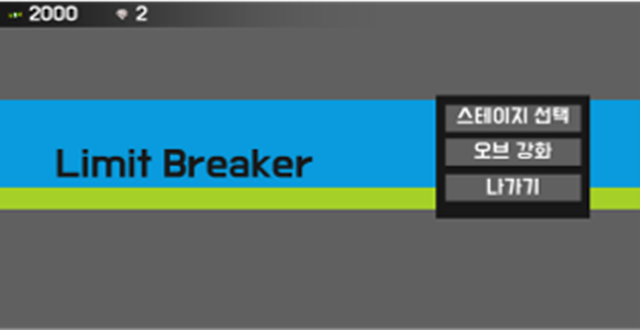
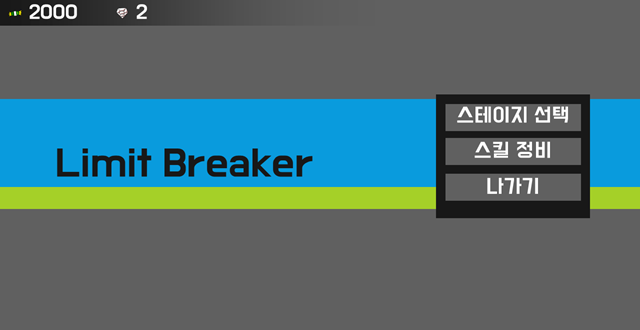
자세한 내용은 2월 10일자 로그 참고

diff --git a/src/Sections/GUI.js b/src/Sections/GUI.js
@@ -8,7 +8,7 @@ function GUI() {
             </div>
             <div className="Main-text">
                 본 게임이 시작하기 전에 들르게 되는 화면이다.<br />
-                스테이지 선택, 오브 강화 등 다양한 것들을 선택할 수 있다.
+                스테이지 선택, 스킬 정비 등 다양한 것들을 선택할 수 있다.
             </div>
         </>
     );
@@ -32,18 +32,33 @@ function GUI3() {
     return (
         <>
             <div className="Image">
-                <img className="Image-right" src={require('../img/options.png')} alt="GUI" />
+                <img className="Image-right" src={require('../img/skillUpgrade.png')} alt="GUI" />
             </div>
             <div className="Main-text">
-                메인 화면에서 <mark>오브 강화</mark>에 들어갔을 때 보게 되는 화면이다.<br />
-                다양한 강화 요소들과 해당 요소를 직관적으로 보여주는 아이콘들,<br />
-                그리고 그 아래쪽에 있는 현재 레벨 등으로 편한 강화가 가능하게 한다.
+                메인 화면에서 <mark>스킬 정비</mark>에 들어갔을 때 보게 되는 화면이다.<br />
+                해당 화면에서는 여러 스킬들을 슬롯에 장착할 수 있게 하고<br />
+                버튼을 통해 스킬 강화 화면으로 진입이 가능하게 할 예정이다.
             </div>
         </>
     );
 }
 
 function GUI4() {
+    return (
+        <>
+            <div className="Image">
+                <img className="Image-right" src={require('../img/options.png')} alt="GUI" />
+            </div>
+            <div className="Main-text">
+                메인 화면에서 <mark>스킬 강화</mark>에 들어갔을 때 보게 되는 화면이다.<br />
+                다양한 강화 요소들과 해당 요소를 직관적으로 보여주는 아이콘들,<br />
+                그 아래쪽에 있는 현재 레벨 등으로 편한 강화가 가능하게 한다.
+            </div>
+        </>
+    );
+}
+
+function GUI5() {
     return (
         <>
             <div className="Image">
@@ -59,7 +74,7 @@ function GUI4() {
     );
 }
 
-function GUI5() {
+function GUI6() {
     return (
         <>
             <div className="Image">
@@ -73,7 +88,7 @@ function GUI5() {
     );
 }
 
-function GUI6() {
+function GUI7() {
     return (
         <>
             <div className="Image">
@@ -87,4 +102,4 @@ function GUI6() {
     );
 }
 
-export { GUI, GUI2, GUI3, GUI4, GUI5, GUI6 };
+export { GUI, GUI2, GUI3, GUI4, GUI5, GUI6, GUI7 };

diff --git a/src/Sections/System.js b/src/Sections/System.js
@@ -69,7 +69,7 @@ function System5() {
                 <img className="Image-right" src={require('../img/options.png')} alt="Options" />
             </div>
             <div className="Main-text">
-                각 옵션이 지니는 효과는 다음과 같다.<br /><br />
+                패시브 스킬은 초록색으로 표시되며, 각각이 지니는 효과는 다음과 같다.<br /><br />
                 공격력: 레벨 상승시마다 <mark>고정 피해 (damage)</mark>가 하단의 공식을 따른다.<br />
                 <div className="code-box">
                     <mark>//int damage0은 레벨 0 기준 고정 피해</mark><br />
@@ -92,7 +92,7 @@ function System6() {
                 <img className="Image-right" src={require('../img/options.png')} alt="Options" />
             </div>
             <div className="Main-text">
-                각 옵션이 지니는 효과는 다음과 같다.<br /><br />
+                액티브 스킬은 초록색으로 표시되며, 각각이 지니는 효과는 다음과 같다.<br /><br />
                 에임슛: 레벨 상승시마다 퓨어 오브가 공중에서 대상을<br />
                 <mark>재조준 (리에임)하여 날릴 수 있는 횟수가 증가</mark>한다.<br />
                 게이지가 2단계 이상 차 있지 않으면 사용이 불가능하다.
@@ -108,8 +108,8 @@ function System7() {
                 <img className="Image-right" src={require('../img/gaugeUI.png')} alt="Gauge" />
             </div>
             <div className="Main-text">
-                게이지가 많이 차 있을수록 오브의 화력 값이 증가하며,<br />
-                표시되어 있는 마디선에 따라 총 3단계로 나뉜다.<br /><br />
+                게이지가 많이 차 있을수록 오브의 화력이 증가하며 마디선에 따라<br />
+                총 3단계로 나뉘고 단계에 따라 퓨어 오브의 이펙트가 달라진다.<br /><br />
                 게이지가 완충됐는데도 날려지지 않을 경우 자동으로 날려지며,<br />
                 땅에 떨어진 퓨어 오브는 몇 초 뒤 사라지고 다시 활성화된다.
             </div>

diff --git a/src/SectionsGUI.js b/src/SectionsGUI.js
@@ -2,9 +2,9 @@ import React from "react";
 import ReactFullpage from "@fullpage/react-fullpage";
 import { MainContext } from "./Sections/MainContext";
 import { Section } from "./Section";
-import { GUI, GUI2, GUI3, GUI4, GUI5, GUI6 } from "./Sections/GUI";
+import { GUI, GUI2, GUI3, GUI4, GUI5, GUI6, GUI7 } from "./Sections/GUI";
 
-export const anchors = ["g01", "g02", "g03", "g04", "g05", "g06"];
+export const anchors = ["g01", "g02", "g03", "g04", "g05", "g06", "g07"];
 
 export default function SectionsEntry() {
     return (
@@ -25,19 +25,23 @@ export default function SectionsEntry() {
                         </Section>
 
                         <Section>
-                            <MainContext number="03" title="오브 강화 화면" content={GUI3()} />
+                            <MainContext number="03" title="스킬 정비 화면" content={GUI3()} />
                         </Section>
 
                         <Section>
-                            <MainContext number="04" title="게이지 UI" content={GUI4()} />
+                            <MainContext number="04" title="스킬 강화 화면" content={GUI4()} />
                         </Section>
 
                         <Section>
-                            <MainContext number="05" title="하트 UI" content={GUI5()} />
+                            <MainContext number="05" title="게이지 UI" content={GUI5()} />
                         </Section>
 
                         <Section>
-                            <MainContext number="06" title="보스 체력바 UI" content={GUI6()} />
+                            <MainContext number="06" title="하트 UI" content={GUI6()} />
+                        </Section>
+
+                        <Section>
+                            <MainContext number="07" title="보스 체력바 UI" content={GUI7()} />
                         </Section>
                     </div>
                 );

diff --git a/src/Sections/ContextText.js b/src/Sections/ContextText.js
@@ -6,8 +6,8 @@ export function Main() {
             이 게임은 벽부수기 게임 요소를 3D로 구현하여<br />
             부수는 것에 대한 재미와 게임성을 잡는 것을 목표로 한다.<br />
             게임 엔진은 Unity이며, 3D 모바일 게임으로 개발되고 있다.<br /><br />
-            퓨어 오브를 조준한 뒤 날려 임팩테이블을 화려하게 파괴하는 것이 목표이다.<br />
-            점점 다가오는 임팩테이블이 빨간 선에 닿지 않게끔 효율적인 플레이를 요구한다.
+            퓨어 오브를 날려 임팩테이블을 화려하게 파괴하는 것이 목표이며,<br />
+            임팩테이블이 빨간 선에 닿지 않게끔 효율적인 플레이를 요구한다.
         </div>
     );
 }
